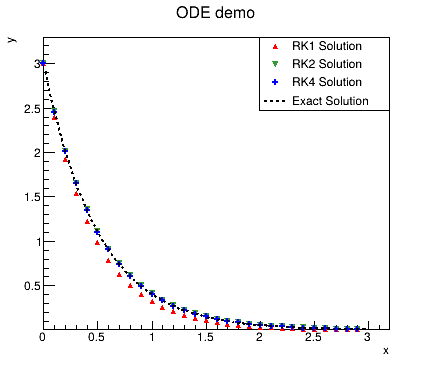
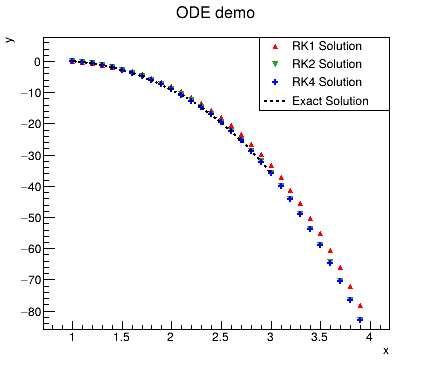
change function; added data

diff --git a/RKdemo.cpp b/RKdemo.cpp
@@ -19,17 +19,20 @@ double fun1(double x, double y){
 
 double fun2(double x, double y){
   return -y/x-2/(x*x);  // f = y'(x,y) = -y(x)/x - 2/x^2 
-}                       // -2*log(|x|)/x+2/x  ; with initial condition y(0)=2
+}// -2*log(|x|)/x+2/x  ; with initial condition y(0)=2
+double fun3(double x, double y){
+	return (y-3*x*x*x)/x;
+}
 
 int main(int argc, char **argv){
   TApplication theApp("App", &argc, argv); // init ROOT App for displays
 
   // solve our DEQ using RK1 or RK2 methods!
   // Two examples are given.  Choose a function for testing
-  TGraph tg1=RK1Solve(fun1,3,30,0,3);                     // initial condition y(0)=3
-  TGraph tg2=RK2Solve(fun1,3,30,0,3);
-  TGraph tg4 = RK4Solve(fun1,3,30,0,3);
-  TF1 fun_sol=TF1("fun_sol","3*exp(-2*x)",0,3);           // exact solution
+  TGraph tg1=RK1Solve(fun3,0,30,1,4);                     // initial condition y(0)=3
+  TGraph tg2=RK2Solve(fun3,0,30,1,4);
+  TGraph tg4 = RK4Solve(fun3,0,30,1,4);
+  TF1 fun_sol=TF1("fun_sol","-1.5*x*x*x +1.5*x",1,3);           // exact solution
   //TGraph tg1=RK1Solve(fun2,2,100,1,100);                // initial condition y(1)=2
   //TGraph tg2=RK2Solve(fun2,2,100,1,100);
   //TF1 fun_sol=TF1("fun_sol","-2*log(x)/x+2/x",1,100);   // exact solution
@@ -74,13 +77,14 @@ int main(int argc, char **argv){
 
   // retreive the data from the graphs and write to a file
   FILE *fp=fopen("RKdemo.dat","w");
-  double *x, *y1, *y2;
+  double *x, *y1, *y2, *y4;
   x=tg1.GetX();
   y1=tg1.GetY();
   y2=tg2.GetY();
-  fprintf(fp,"#%8s %9s %9s %9s\n","x","RK1","RK2","Exact");
+  y4 = tg4.GetY();
+  fprintf(fp,"#%8s %9s %9s %9s %9s\n","x","RK1","RK2","RK4","Exact");
   for (int i=0; i<tg1.GetN(); i++){
-    fprintf(fp,"%9.4lf %9.4lf %9.4lf %9.4lf\n",x[i],y1[i],y2[i],fun_sol.Eval(x[i]));
+    fprintf(fp,"%9.4lf %9.4lf %9.4lf %9.4lf %9.4lf\n",x[i],y1[i],y2[i],y4[i],fun_sol.Eval(x[i]));
   }
   fclose(fp);
   
